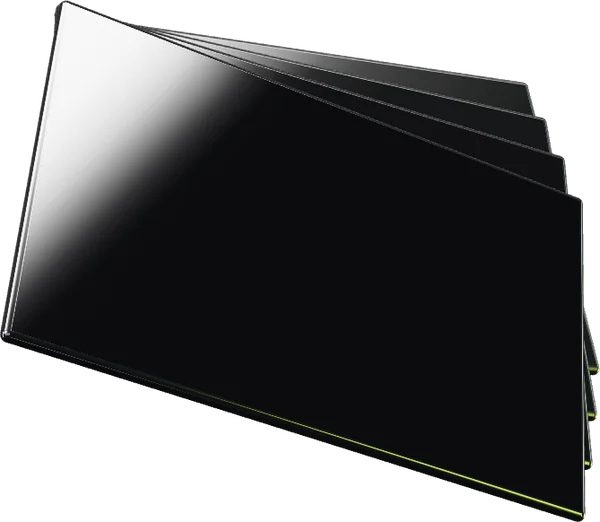
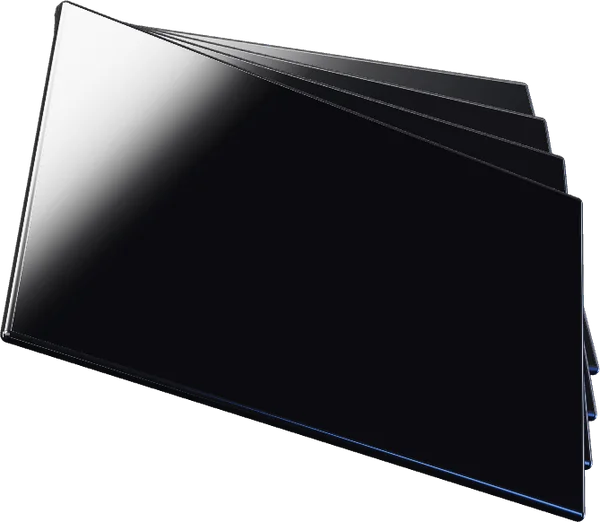
Switch theme from lime to electric blue on black
Accent #4f8cff replaces lime across CSS tokens, project themes, favicon,
grid overlay, 3D render lighting, duotone portrait and OG image.

Claude-Session: https://claude.ai/code/session_014u3kqBKNZwM2iQP7AL4Yyw

diff --git a/src/assets/css/main.css b/src/assets/css/main.css
@@ -1,6 +1,6 @@
 /* ==========================================================================
    FUZAIL. — Design system v2 · "Frames on a canvas"
-   Lime on near-black. Every section is an artboard with a frame caption,
+   Electric blue on near-black. Every section is an artboard with a frame caption,
    bordered by pixel bands drawn from design-tool glyphs on a 4px grid.
    Breakpoints: 640 · 960 · 1280 (px)
    ========================================================================== */
@@ -19,7 +19,7 @@
   --text-3: #85858c;
   --line: rgba(255, 255, 255, 0.1);
   --line-2: rgba(255, 255, 255, 0.2);
-  --accent: #c6ff3d;
+  --accent: #4f8cff;
   --accent-ink: #0a0a0b;
 
   --font-display: 'Archivo', 'Inter', system-ui, sans-serif;
@@ -87,7 +87,7 @@ em { font-style: normal; color: var(--accent); }
 .grid-overlay { position: fixed; inset: 0; z-index: 120; pointer-events: none; opacity: 0; transition: opacity var(--dur-2); }
 .show-grid .grid-overlay { opacity: 1; }
 .grid-cols { height: 100%; display: grid; grid-template-columns: repeat(12, 1fr); gap: var(--col-gap); }
-.grid-cols span { background: rgba(198, 255, 61, 0.05); border-inline: 1px solid rgba(198, 255, 61, 0.16); }
+.grid-cols span { background: rgba(79, 140, 255, 0.05); border-inline: 1px solid rgba(79, 140, 255, 0.16); }
 @media (max-width: 639px) { .grid-cols { grid-template-columns: repeat(4, 1fr); } .grid-cols span:nth-child(n + 5) { display: none; } }
 
 /* Status dot */
@@ -232,7 +232,7 @@ body.menu-open { overflow: hidden; }
 .inspector dd { font-size: var(--fs-sm); }
 .inspector-swatches { display: flex; align-items: center; gap: 8px; padding: 12px 14px; color: var(--text-2); }
 .sw { width: 14px; height: 14px; border: 1px solid var(--line-2); }
-.sw--lime { background: var(--accent); }
+.sw--accent { background: var(--accent); }
 .sw--ink { background: var(--ink); margin-left: 12px; }
 .about-copy { grid-column: 6 / -1; display: grid; gap: 32px; align-content: start; }
 .reading { font-family: var(--font-display); font-weight: 500; font-stretch: 100%; font-size: clamp(1.6rem, 0.9rem + 2.3vw, 3rem); line-height: 1.16; letter-spacing: -0.02em; }
@@ -282,7 +282,7 @@ body.menu-open { overflow: hidden; }
 .work-num { position: absolute; left: 18px; bottom: -0.16em; font-family: var(--font-display); font-weight: 800; font-stretch: 125%; font-size: clamp(6rem, 16vw, 15rem); line-height: 1; color: transparent; -webkit-text-stroke: 1px rgba(255, 255, 255, 0.16); }
 .work-obj { position: absolute; inset: 10% 22%; display: grid; place-items: center; }
 .work-img { width: 100%; height: 100%; object-fit: contain; filter: drop-shadow(0 30px 50px rgba(0, 0, 0, 0.6)); transition: transform 1100ms var(--ease-out); }
-.work-sel { position: absolute; inset: 12% 24%; border: 1px dashed rgba(198, 255, 61, 0.45); opacity: 0; transition: opacity var(--dur-2), inset var(--dur-3) var(--ease-out); }
+.work-sel { position: absolute; inset: 12% 24%; border: 1px dashed rgba(79, 140, 255, 0.45); opacity: 0; transition: opacity var(--dur-2), inset var(--dur-3) var(--ease-out); }
 .work-sel i { position: absolute; width: 7px; height: 7px; background: var(--bg); border: 1px solid var(--accent); }
 .work-sel i:nth-child(1) { left: -4px; top: -4px; } .work-sel i:nth-child(2) { right: -4px; top: -4px; }
 .work-sel i:nth-child(3) { left: -4px; bottom: -4px; } .work-sel i:nth-child(4) { right: -4px; bottom: -4px; }
@@ -379,7 +379,7 @@ details[open] .xp-toggle::after { transform: translate(-50%, -50%) rotate(0deg);
 .lab-grid { display: grid; grid-template-columns: repeat(3, 1fr); gap: var(--col-gap); }
 @media (max-width: 959px) { .lab-empty-row { grid-template-columns: 1fr; } .lab-grid { grid-template-columns: 1fr; } }
 
-/* ── Footer / contact (lime field) ─────────────────────────────────────── */
+/* ── Footer / contact (blue field) ─────────────────────────────────────── */
 .foot { background: var(--accent); color: var(--accent-ink); padding-top: 0; overflow: hidden; }
 .foot .band { color: var(--accent-ink); }
 .foot .caption { color: rgba(10, 10, 11, 0.7); padding-block: 12px; }
@@ -421,7 +421,7 @@ details[open] .xp-toggle::after { transform: translate(-50%, -50%) rotate(0deg);
 .cs-facts dd { font-size: var(--fs-sm); }
 .cs-cover { margin-top: clamp(32px, 5vw, 64px); }
 .cover { --mx: 50%; --my: 45%; position: relative; aspect-ratio: 16 / 8; overflow: hidden; border: 1px solid var(--line);
-  background: radial-gradient(45% 55% at var(--mx) var(--my), color-mix(in srgb, var(--cover-accent, #c6ff3d) 12%, transparent), transparent 70%),
+  background: radial-gradient(45% 55% at var(--mx) var(--my), color-mix(in srgb, var(--cover-accent, #4f8cff) 12%, transparent), transparent 70%),
               linear-gradient(var(--line) 1px, transparent 1px) 0 0 / 32px 32px, linear-gradient(90deg, var(--line) 1px, transparent 1px) 0 0 / 32px 32px, var(--bg-2); }
 .cover-grid, .cover-light { display: none; }
 .cover-num { position: absolute; left: 18px; bottom: -0.16em; font-family: var(--font-display); font-weight: 800; font-stretch: 125%; font-size: clamp(6rem, 18vw, 18rem); line-height: 1; color: transparent; -webkit-text-stroke: 1px rgba(255, 255, 255, 0.14); }

diff --git a/tools/render-page.html b/tools/render-page.html
@@ -15,7 +15,7 @@
 import * as THREE from 'three';
 import { RoundedBoxGeometry } from 'three/addons/geometries/RoundedBoxGeometry.js';
 
-const LIME = 0xc6ff3d;
+const ACCENT = 0x4f8cff;
 
 // --- A dark photographic studio used only as a reflection environment.
 // Chrome reads as "luxury" when it reflects mostly darkness with a few crisp softboxes.
@@ -40,7 +40,7 @@ function studioEnv(renderer, { accent = true } = {}) {
   strip(10, 0.6, 0xffffff, 1.2, [0, -6, 8], [-Math.PI / 3, 0, 0]);        // low fill
   strip(18, 9, 0x8a8f99, 0.55, [-2, 2, 13], [0, Math.PI, 0]);            // broad dim front fill (gives flat faces gradation)
   strip(6, 6, 0xffffff, 0.9, [-8, 6, 8], [0, Math.PI * 0.8, 0]);         // soft upper-left box
-  if (accent) strip(0.7, 9, LIME, 2.2, [9, -1, 6], [0, -Math.PI / 1.6, 0]); // restrained lime kicker
+  if (accent) strip(0.7, 9, ACCENT, 2.2, [9, -1, 6], [0, -Math.PI / 1.6, 0]); // restrained blue kicker
   const pmrem = new THREE.PMREMGenerator(renderer);
   return pmrem.fromScene(env, 0.02).texture;
 }
@@ -156,7 +156,7 @@ window.renderObject = (name, size = 1400, fov = 30, dist = 11) => {
   const obj = builders[name]();
   scene.add(obj);
   const key = new THREE.DirectionalLight(0xffffff, 1.2); key.position.set(-4, 6, 6); scene.add(key);
-  const rim = new THREE.DirectionalLight(LIME, 0.6); rim.position.set(6, -2, -4); scene.add(rim);
+  const rim = new THREE.DirectionalLight(ACCENT, 0.6); rim.position.set(6, -2, -4); scene.add(rim);
 
   // Frame the object
   const box = new THREE.Box3().setFromObject(obj);

diff --git a/README.md b/README.md
@@ -2,7 +2,7 @@
 
 Senior UI/UX Designer · Goa, India. Live at **https://fuzailgfx.vercel.app**.
 
-**Design system — “frames on a canvas”:** lime on near-black; every section is an artboard with a frame caption (`Frame 03 · “Toolkit”`), separated by pixel bands drawn from design-tool glyphs (the cut-F mark, cursor, bezier anchor, selected node, crosshair) on a 4px grid. The top bar has a layout-grid toggle, About is a design-tool inspector panel, and experience is a status table. The bands are generated in `src/templates/components.mjs` (`pixelBand`, `pixelGlyph`).
+**Design system — “frames on a canvas”:** electric blue on near-black; every section is an artboard with a frame caption (`Frame 03 · “Toolkit”`), separated by pixel bands drawn from design-tool glyphs (the cut-F mark, cursor, bezier anchor, selected node, crosshair) on a 4px grid. The top bar has a layout-grid toggle, About is a design-tool inspector panel, and experience is a status table. The bands are generated in `src/templates/components.mjs` (`pixelBand`, `pixelGlyph`).
 
 A static site: content lives in plain data files, a zero-dependency Node script renders it to HTML, and Vercel deploys it on every push to `main`.
 
@@ -59,7 +59,7 @@ cd tools && npm install
 npm run render     # re-render the chrome 3D objects (Three.js in headless Chromium)
 npm run images     # re-optimise source artwork into responsive WebP
 node render-icons.mjs
-node duotone.mjs   # lime duotone portrait from assets/source/img-2.png
+node duotone.mjs   # blue duotone portrait from assets/source/img-2.png
 node render-og.mjs # needs `npm run dev` running in the repo root
 ```
 
